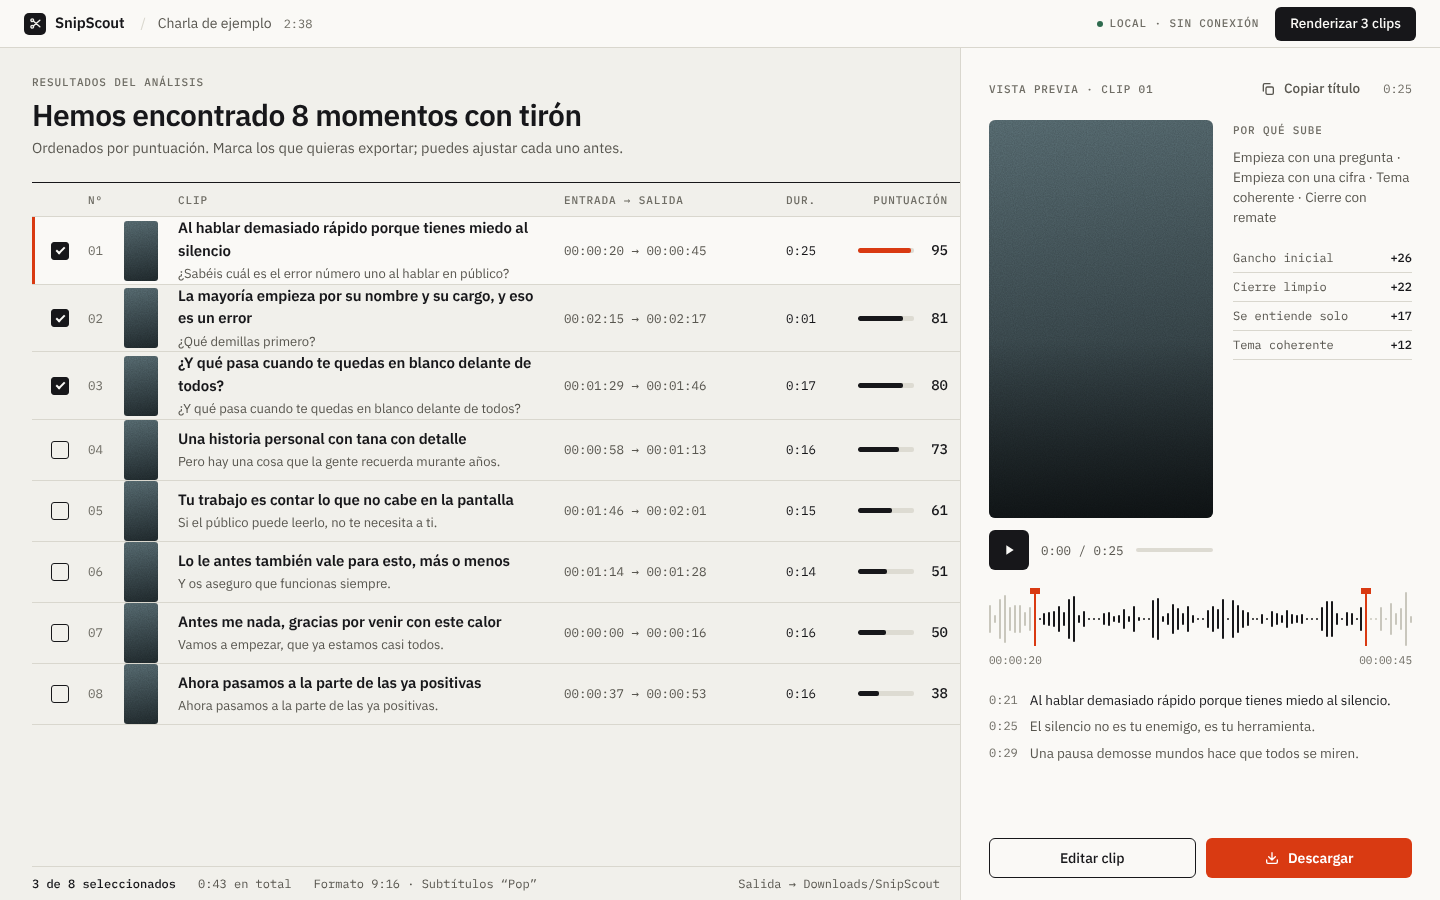
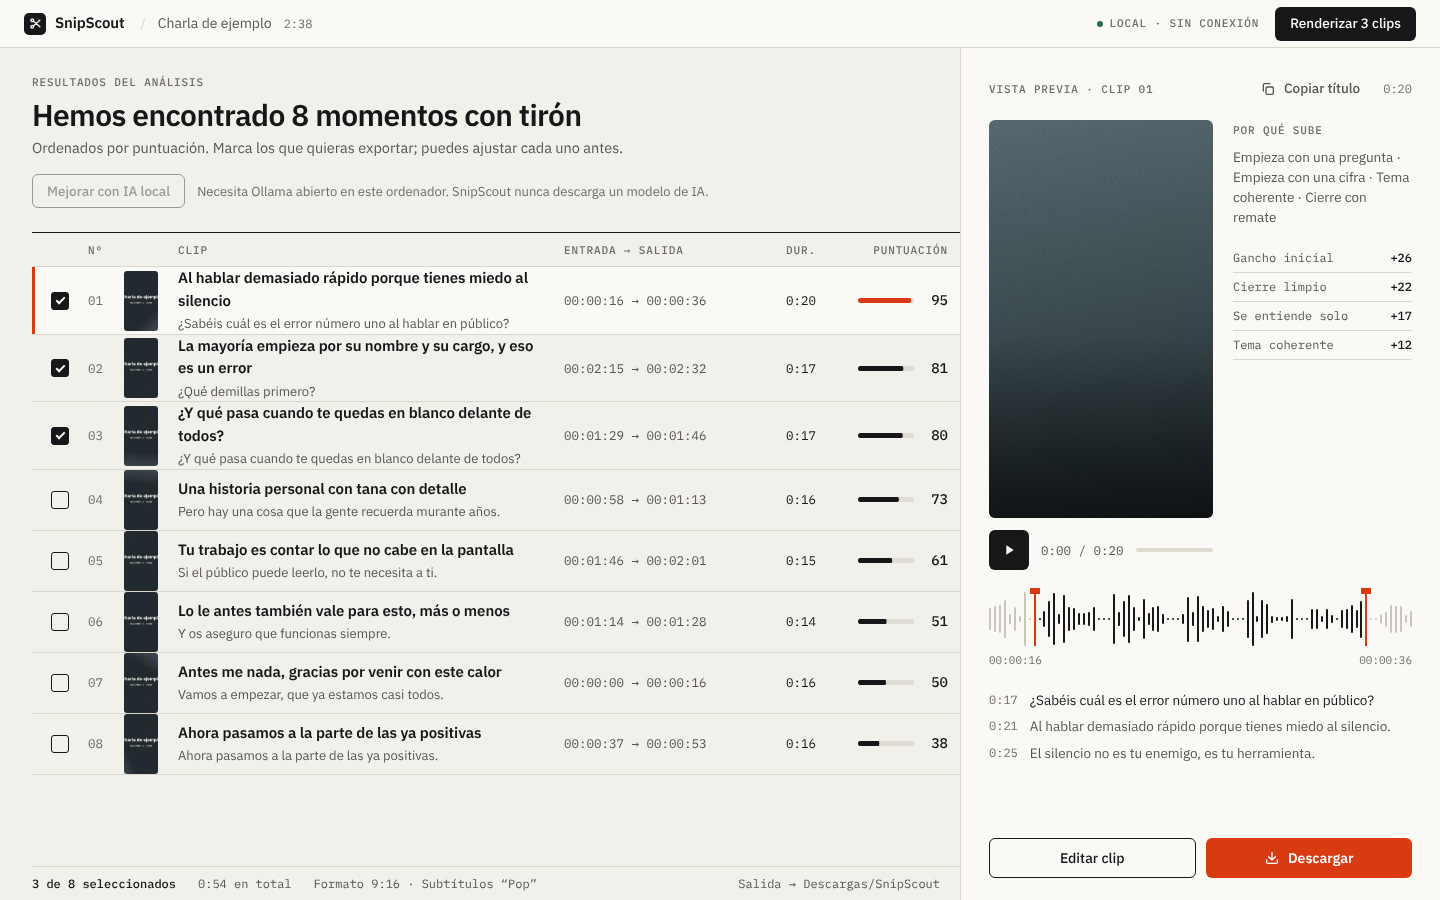
feat: P4 walkthrough GIF, benchmark script, experimental bundle and v0.3.0 release prep

diff --git a/scripts/make_screenshots.py b/scripts/make_screenshots.py
@@ -3,13 +3,17 @@
 Usage:
   1. Start the app with a data folder that has one exported project:  snipscout ui --browser --port 8765
   2. python scripts/make_screenshots.py "http://127.0.0.1:8765/?t=TOKEN" [--theme light|dark]
-     [--out docs/screenshots]
-Needs Playwright with Chromium (`--executable` to point at a Chromium binary).
+     [--out docs/screenshots] [--gif]
+Needs Playwright with Chromium (`--executable` to point at a Chromium binary). `--gif` also records a short
+walkthrough (home → results → editor with playback → export) and converts it with ffmpeg (`--ffmpeg`).
 """
 
 from __future__ import annotations
 
 import argparse
+import shutil
+import subprocess
+import tempfile
 from pathlib import Path
 
 ROOT = Path(__file__).resolve().parents[1]
@@ -24,6 +28,8 @@ def main() -> int:
     ap.add_argument("--out", type=Path, default=ROOT / "docs" / "screenshots")
     ap.add_argument("--executable")
     ap.add_argument("--lang", default="es-ES")
+    ap.add_argument("--gif", action="store_true", help="Also record docs/screenshots/walkthrough.gif")
+    ap.add_argument("--ffmpeg", default=shutil.which("ffmpeg") or "ffmpeg")
     args = ap.parse_args()
     args.out.mkdir(parents=True, exist_ok=True)
     base = args.url.split("?")[0]
@@ -52,8 +58,80 @@ def main() -> int:
             page.wait_for_timeout(1000)  # thumbnails and fonts
             page.screenshot(path=str(args.out / f"{name}-{args.theme}.png"))
             print("saved", name)
+        if args.gif:
+            record_gif(browser, args, base, done)
         browser.close()
     return 0
+
+
+def record_gif(browser: object, args: argparse.Namespace, base: str, pid: str) -> None:
+    """Capture the walkthrough as screenshots at a steady rate, then make a palette-optimised GIF with ffmpeg
+    (960 px wide). Frame capture avoids Playwright's separate video ffmpeg download."""
+    import time
+
+    fps = 8
+    tmp = Path(tempfile.mkdtemp(prefix="snipscout-gif-"))
+    ctx = browser.new_context(viewport={"width": 1280, "height": 800}, locale=args.lang)  # type: ignore[attr-defined]
+    ctx.add_init_script(f"try{{localStorage.setItem('snipscout.theme','{args.theme}')}}catch(e){{}}")
+    page = ctx.new_page()
+    frames = [0]
+
+    def hold(ms: int) -> None:
+        end = time.monotonic() + ms / 1000
+        while time.monotonic() < end:
+            t0 = time.monotonic()
+            page.screenshot(path=str(tmp / f"f{frames[0]:05d}.png"))
+            frames[0] += 1
+            time.sleep(max(0.0, 1 / fps - (time.monotonic() - t0)))
+
+    page.goto(args.url)
+    page.wait_for_selector(".home, .welcome")
+    page.wait_for_timeout(500)
+    hold(1200)
+    page.goto(f"{base}#/proyecto/{pid}")
+    page.wait_for_selector(".results .row")
+    page.wait_for_timeout(600)
+    hold(1500)
+    page.focus("#row-c01")
+    for _ in range(2):
+        page.keyboard.press("ArrowDown")
+        hold(1100)
+    page.goto(f"{base}#/proyecto/{pid}/clip/c01")
+    page.wait_for_selector(".editor .word")
+    page.wait_for_timeout(600)
+    hold(600)
+    page.keyboard.press("Space")  # play: the active subtitle word follows the voice
+    hold(4000)
+    page.keyboard.press("Space")
+    page.goto(f"{base}#/proyecto/{pid}/exportar")
+    page.wait_for_selector(".export__row")
+    page.wait_for_timeout(600)
+    hold(1800)
+    ctx.close()
+    out = args.out / "walkthrough.gif"
+    vf = (
+        "scale=960:-1:flags=lanczos,split[a][b];"
+        "[a]palettegen=max_colors=96:stats_mode=diff[p];[b][p]paletteuse=dither=bayer"
+    )
+    subprocess.run(  # noqa: S603 - fixed arguments, no shell
+        [
+            args.ffmpeg,
+            "-y",
+            "-loglevel",
+            "error",
+            "-framerate",
+            str(fps),
+            "-i",
+            str(tmp / "f%05d.png"),
+            "-vf",
+            vf,
+            str(out),
+        ],
+        check=True,
+        timeout=300,
+    )
+    shutil.rmtree(tmp, ignore_errors=True)
+    print("saved", out, f"{frames[0]} frames, {out.stat().st_size / 1e6:.1f} MB")
 
 
 if __name__ == "__main__":

diff --git a/scripts/benchmark.py b/scripts/benchmark.py
@@ -1,0 +1,83 @@
+"""Measure transcription speed and peak memory per speech model on this computer.
+
+Each model runs in a fresh child process, so peak RAM is that model's own. Models that are not
+downloaded yet are downloaded first (one-time, from Hugging Face). Prints a Markdown table.
+Usage: uv run python scripts/benchmark.py path/to/talk.mp4 [--models tiny base small]
+"""
+
+from __future__ import annotations
+
+import argparse
+import json
+import platform
+import subprocess
+import sys
+import tempfile
+import time
+from pathlib import Path
+
+CHILD = """
+import json, sys, time, threading
+from pathlib import Path
+import psutil
+from snipscout.core.transcribe import load_model, transcribe
+name, wav = sys.argv[1], Path(sys.argv[2])
+proc, peak = psutil.Process(), [0]
+def watch():
+    while True:
+        peak[0] = max(peak[0], proc.memory_info().rss)
+        time.sleep(0.05)
+threading.Thread(target=watch, daemon=True).start()
+t0 = time.perf_counter()
+model = load_model(name)
+t1 = time.perf_counter()
+tr = transcribe(model, name, wav)
+t2 = time.perf_counter()
+print(json.dumps({"load_s": t1 - t0, "transcribe_s": t2 - t1, "peak_rss": peak[0], "words": len(tr.words)}))
+"""
+
+
+def main() -> int:
+    import psutil
+
+    from snipscout.core import audio, ingest, modelstore
+    from snipscout.core.binaries import resolve_ffmpeg
+
+    ap = argparse.ArgumentParser()
+    ap.add_argument("media", type=Path)
+    ap.add_argument("--models", nargs="+", default=["tiny", "base", "small"])
+    args = ap.parse_args()
+
+    ff = resolve_ffmpeg()
+    info = ingest.probe(args.media, ff.ffprobe)
+    wav = Path(tempfile.mkdtemp(prefix="snipscout-bench-")) / "audio.wav"
+    audio.extract_audio(ff.ffmpeg, info, wav)
+    minutes = audio.wav_duration(wav) / 60
+    cpu = platform.processor() or platform.machine()
+    ram_gb = psutil.virtual_memory().total / 1024**3
+    print(f"{platform.system()} {platform.release()} · {cpu} · {psutil.cpu_count(logical=True)} logical CPUs")
+    print(f"{ram_gb:.1f} GB RAM · audio {minutes:.2f} min\n")
+    print("| Model | Download | Load | Time per minute of audio | Peak RAM |")
+    print("|---|---|---|---|---|")
+    for name in args.models:
+        if not modelstore.is_installed(name):
+            modelstore.download_model(name)
+        size = modelstore.get_spec(name).total_bytes
+        out = subprocess.run(  # noqa: S603 - fixed interpreter and our own code, no shell
+            [sys.executable, "-c", CHILD, name, str(wav)],
+            capture_output=True,
+            text=True,
+            timeout=3600,
+            check=True,
+        )
+        r = json.loads(out.stdout.strip().splitlines()[-1])
+        print(
+            f"| {name} | {size / 1e6:.0f} MB | {r['load_s']:.1f} s | {r['transcribe_s'] / minutes:.1f} s | "
+            f"{r['peak_rss'] / 1024**3:.2f} GB |"
+        )
+        time.sleep(1)
+    return 0
+
+
+if __name__ == "__main__":
+    sys.exit(main())

diff --git a/packaging/snipscout_frozen.py b/packaging/snipscout_frozen.py
@@ -1,0 +1,8 @@
+"""Entry point for the experimental PyInstaller build: no arguments = open the app window."""
+
+import sys
+
+from snipscout.cli import main
+
+if __name__ == "__main__":
+    sys.exit(main(sys.argv[1:] or ["ui"]))

diff --git a/README.md b/README.md
@@ -3,11 +3,13 @@
 **Turn a long video into short clips with word-by-word subtitles — on your own computer.**
 No accounts, no API keys, no uploads. After a one-time model download it works fully offline.
 
-![Results screen: suggested moments ranked by score, with a preview of the selected clip](docs/screenshots/results-light.png)
+![Walkthrough: suggested moments ranked by score, a clip previewed in the editor with the active subtitle word highlighted, and the finished clips](docs/screenshots/walkthrough.gif)
 
-| Start | Clip editor | Finished clips (dark theme) |
-|---|---|---|
-| ![Home](docs/screenshots/home-light.png) | ![Editor](docs/screenshots/editor-light.png) | ![Export](docs/screenshots/export-dark.png) |
+| Start | Suggested moments | Clip editor | Finished clips (dark theme) |
+|---|---|---|---|
+| ![Home](docs/screenshots/home-light.png) | ![Results](docs/screenshots/results-light.png) | ![Editor](docs/screenshots/editor-light.png) | ![Export](docs/screenshots/export-dark.png) |
+
+<sub>Screenshots and GIF are generated by `scripts/make_screenshots.py --gif` from a demo talk with a synthetic voice.</sub>
 
 ## Why this exists
 
@@ -84,13 +86,19 @@ output, timeouts, and the heuristic result is kept if anything fails).
 
 Python 3.11+ (installed automatically by the launchers). Disk, measured on Linux: about 0.85 GB for Python,
 the environment and the Fast model (+70 MB for Balanced), plus a ~0.6 GB download cache that uv keeps and you can
-delete (`uv cache clean`); Windows sizes are not measured yet. 4 GB of RAM or more is recommended. Measured on a 4-vCPU cloud container (Intel Xeon 2.8 GHz, no GPU) with a synthetic Spanish voice:
+delete (`uv cache clean`); Windows sizes are not measured yet. 4 GB of RAM or more is recommended. Speech-to-text speed, measured with `scripts/benchmark.py` (transcription only,
+each model in a fresh process, single run) on a 4-vCPU cloud container (Intel Xeon 2.8 GHz, no GPU) with a 2:38
+synthetic Spanish voice (2026-11-06, v0.3 development):
 
 | Speech model | Download | Time per minute of audio | Peak RAM |
 |---|---|---|---|
-| Fast (`tiny`) | 78 MB | ≈ 8.5 s | 0.4 GB |
-| Balanced (`base`, default) | 148 MB | ≈ 11 s | 0.6 GB |
-| Accurate (`small`) | 486 MB | ≈ 23 s | 1.1 GB |
+| Fast (`tiny`) | 78 MB | ≈ 4.1 s | 0.43 GB |
+| Balanced (`base`, default) | 148 MB | ≈ 5.4 s | 0.53 GB |
+| Accurate (`small`) | 486 MB | ≈ 11.7 s | 0.79 GB |
+
+A full `snipscout run` of the same talk with Balanced (audio extraction, transcription, scoring and one exported
+vertical clip) took 40 s with the experimental bundle. Earlier v0.1 measurements on the same kind of machine were
+about twice as slow (the cause was not isolated); treat all of these as indicative.
 
 A 2:38 talk went from file to three exported vertical clips in 1 min 38 s with the Balanced model
 (including its download). Laptop timings are **not measured yet**; SnipScout measures your machine's real
@@ -102,7 +110,10 @@ speed and adjusts its estimates after the first analysis.
 - Reframing is center-crop or blurred background; no face tracking.
 - The preview in the app approximates the subtitle rendering; the exported file is the reference.
 - Windows double-click launch verified on a real machine; the native window on macOS is **not yet verified**.
-- v0.3 (in progress): polish and accessibility review (done), optional local-AI re-ranking (done), docs, packaging.
+- An **experimental** self-contained folder build (PyInstaller, ~0.6 GB, unsigned) can be produced with the manual
+  *Experimental bundle* workflow. Verified on Linux only (doctor + a full offline run); unsigned builds trigger
+  SmartScreen/Gatekeeper warnings. The launcher ZIP remains the recommended install.
+- Next: real-video tuning of the scorer with annotated talks, face-aware reframing, signed installers.
 
 ## Responsible use
 

diff --git a/PROGRESS.md b/PROGRESS.md
@@ -54,6 +54,14 @@
   CODE_OF_CONDUCT (Contributor Covenant 2.1 text), CONTRIBUTING, issue forms + PR template; README links them.
   Author action suggested: enable *Private vulnerability reporting* in repo Settings → Security.
 
+- **P4** media/measurements/packaging: `scripts/make_screenshots.py --gif` (frame capture + ffmpeg palette GIF, 2.3 MB;
+  Playwright video needs its own ffmpeg, avoided) → README header GIF + 4 screenshots per theme regenerated from the
+  re-analysed demo; `scripts/benchmark.py` (fresh process per model, psutil peak RSS) → tiny/base/small 4.1/5.4/11.7 s
+  per audio minute, 0.43/0.53/0.79 GB (v0.1 numbers were ~2× slower; cause not isolated; README says so);
+  `packaging/snipscout_frozen.py` + `.github/workflows/pyinstaller.yml` (manual, 3 OS, doctor smoke test, artifact
+  with BUNDLE-README) — local Linux build 593 MB, `doctor` OK and full offline `run` with the bundled imageio ffmpeg
+  (no PATH) in 40 s. Version 0.3.0, CHANGELOG 0.3.0, 124 tests green.
+
 ## Decisions
 - Playwright in CI is pinned (`uv run --with playwright==1.64.1`) instead of a dev dependency, so normal installs stay small.
 - Ollama re-ranking: combined = 0.5 × heuristic + 0.5 × (rating × 10); only top 15 are rated; per-clip requests so
@@ -75,10 +83,12 @@
 - Output folder resolution: `SNIPSCOUT_OUTPUT_DIR` → preferences.json → Downloads/SnipScout/<project>.
 
 ## Current state
-- Version in pyproject: **0.2.0**; v0.1.0 and v0.2.0 released. CHANGELOG `[Unreleased]` collects v0.3 work.
-- Tests: 118 passed + 2 slow deselected (`uv run pytest -q -m "not slow"`).
+- Version in pyproject: **0.3.0** (CHANGELOG 0.3.0); v0.1.0 and v0.2.0 released; **v0.3.0 waiting for the author's release run**.
+- Tests: 124 passed + 2 slow deselected (`uv run pytest -q -m "not slow"`).
 
 ## Next
-- **v0.3 "Pulido"** (P1, P2, P3 done) (acceptance: accessibility verified, full light theme, complete docs + licences, real measurements):
-  - **P4 (next)**: reproducible screenshots + GIF, real performance measurements, experimental PyInstaller workflow (manual), **release v0.3.0** (pause).
-- Pending (spec 5.6): lightweight H.264→VP9 preview proxy when the webview can't play the source (Qt backend only) — not needed for Windows/macOS webviews; decide in U5/S1.
+- **Release v0.3.0** (mandatory pause): author runs Actions → Release → Run workflow; optionally Actions →
+  Experimental bundle to try the PyInstaller build on Windows/macOS. Then verify assets.
+- After v0.3 (needs the author's decision, outside the current spec): real-video scorer tuning with annotated talks
+  (`eval/annotations/*.json`), H.264→VP9 preview proxy for the Qt webview (spec 5.6, only Linux/Qt), face-aware
+  reframing, signed installers.

diff --git a/CHANGELOG.md b/CHANGELOG.md
@@ -3,7 +3,9 @@
 All notable changes to this project are documented here. The format follows
 [Keep a Changelog](https://keepachangelog.com/en/1.1.0/) and the project uses [Semantic Versioning](https://semver.org/).
 
-## [Unreleased]
+## [0.3.0] - 2026-11-06
+
+"Polish" release.
 
 ### Added
 - Documentation: `docs/architecture.md`, `docs/api.md`, `docs/scoring.md`, `docs/troubleshooting.md`.
@@ -20,9 +22,14 @@ All notable changes to this project are documented here. The format follows
   Settings shows whether Ollama is running and lets you pick the model.
 - `scripts/check_a11y.py`: audits every screen in both themes (axe-core WCAG 2.1 AA rules when given `axe.min.js`,
   40 px targets, keyboard Tab walk with visible focus, no horizontal scroll at 200 % zoom).
+- Reproducible README media: `scripts/make_screenshots.py --gif` records the walkthrough GIF from frames (no extra
+  video tooling). `scripts/benchmark.py` measures speed and peak RAM per speech model in fresh processes.
+- Experimental PyInstaller folder build (manual workflow, unsigned, all three OS); verified on Linux.
 - Subtle motion (transform/opacity only): views fade in, score bars grow, the selected-row marker slides in.
 
 ### Changed
+- README performance table re-measured with `scripts/benchmark.py`: ≈ 4.1 / 5.4 / 11.7 s per minute of audio for
+  tiny / base / small on a 4-vCPU container (earlier v0.1 figures were about twice as slow).
 - Every control has a hit area of at least 40 px; compact buttons keep their look.
 - Progress is announced to screen readers once per stage or 10 % instead of on every update.
 - The results list is an ARIA grid (fixes nested interactive controls); keyboard shortcuts in the editor have AA contrast.

diff --git a/docs/troubleshooting.md b/docs/troubleshooting.md
@@ -35,9 +35,10 @@ Every error screen has a stable code (also returned by the API) and a *Copy tech
 
 ## Speed and resources
 
-- Analysis time depends mostly on the speech model. On a 4-vCPU machine without GPU, Balanced (`base`) took about
-  11 s per minute of audio; Fast (`tiny`) about 8.5 s; Accurate (`small`) about 23 s. Laptop timings are not measured
-  yet; SnipScout measures your machine after the first analysis and updates its estimates.
+- Analysis time depends mostly on the speech model. On a 4-vCPU machine without GPU, Balanced (`base`) transcribed
+  about 5.4 s per minute of audio; Fast (`tiny`) about 4.1 s; Accurate (`small`) about 11.7 s
+  (`scripts/benchmark.py`). Laptop timings are not measured yet; SnipScout measures your machine after the first
+  analysis and updates its estimates. Measure yours with `uv run python scripts/benchmark.py your-video.mp4`.
 - Long videos are processed in 5-minute chunks; you can cancel and resume later without losing progress.
 - *Quick analysis* only listens to the first 10 minutes.
 - Exports use libx264 by default. *Hardware encoder* (Settings) tries the GPU encoder and falls back automatically.
